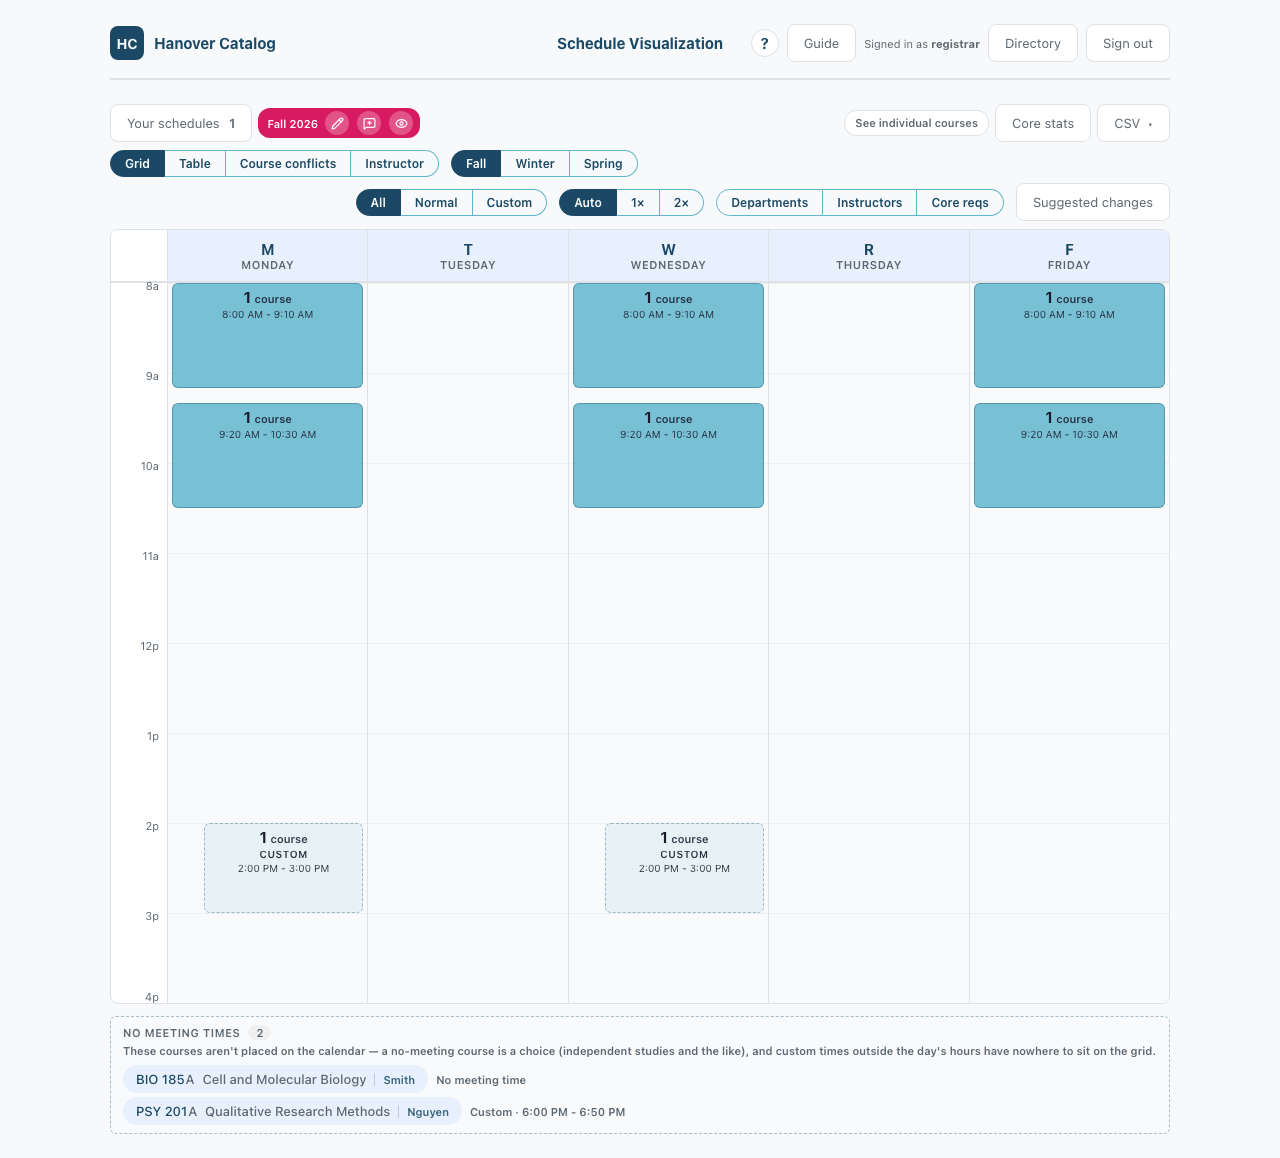
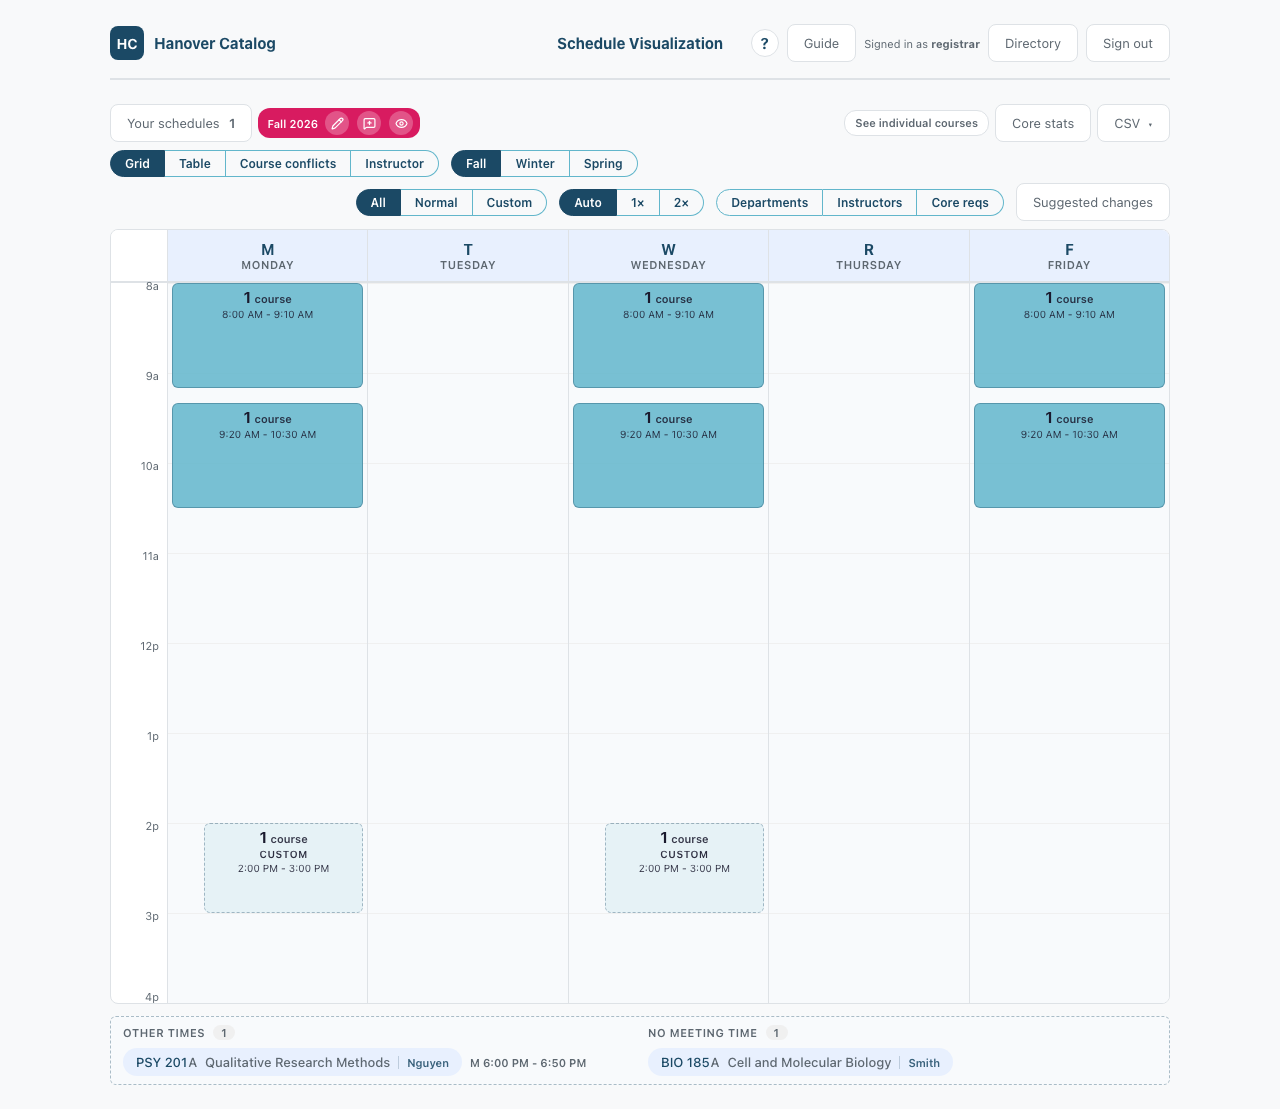
feat(schedule): split the off-calendar strip into Other times and No meeting time
The strip under the grid now shows two labelled columns — "Other times"
(scheduled courses entirely outside the grid's hours, each naming its days
and time) and "No meeting time" (deliberately unscheduled courses). The
repeated per-row "No meeting time" label and the explainer paragraph are
gone; an empty column shows a muted placeholder. Columns sit side by side
and stack on narrow screens.

diff --git a/apps/schedule/components/NoMeetingStrip.vue b/apps/schedule/components/NoMeetingStrip.vue
@@ -1,33 +1,51 @@
 <template>
-  <div v-if="items.length" class="no-meeting-strip">
-    <div class="no-meeting-head">
-      <h3 class="no-meeting-title">No meeting times</h3>
-      <span class="no-meeting-count">{{ items.length }}</span>
-    </div>
-    <p class="no-meeting-hint">
-      These courses aren't placed on the calendar — a no-meeting course is a choice (independent studies and
-      the like), and custom times outside the day's hours have nowhere to sit on the grid.
-      <template v-if="editMode"
-        >Drag one onto a time slot to give it a meeting time, or click the pencil to edit it.</template
-      >
-    </p>
-    <div class="no-meeting-list">
-      <div v-for="it in items" :key="offeringItemKey(it)" class="no-meeting-row">
-        <CoursePill
-          :item="it"
-          :filter-active="filter.active"
-          :color="filter.active ? filter.color(it) : ''"
-          :editable="canOpenEditor(it)"
-          :draggable="isEditable(it)"
-          :drag-day="''"
-          :proposed="proposalFor(it) ? itemTitle(it) : ''"
-          :removed="removalFor(it) ? itemTitle(it) : ''"
-          @edit="openCourseEdit(it)"
-        />
-        <span class="no-meeting-pattern">{{
-          it.o.days && it.o.time ? `Custom · ${formatTime(it.o.time)}` : 'No meeting time'
-        }}</span>
-      </div>
+  <div v-if="groups.otherTimes.length || groups.noMeeting.length" class="no-meeting-strip">
+    <div class="no-meeting-columns">
+      <section class="no-meeting-group" aria-label="Other times">
+        <h3 class="no-meeting-title">
+          Other times
+          <span class="no-meeting-count">{{ groups.otherTimes.length }}</span>
+        </h3>
+        <div v-if="groups.otherTimes.length" class="no-meeting-list">
+          <div v-for="it in groups.otherTimes" :key="offeringItemKey(it)" class="no-meeting-row">
+            <CoursePill
+              :item="it"
+              :filter-active="filter.active"
+              :color="filter.active ? filter.color(it) : ''"
+              :editable="canOpenEditor(it)"
+              :draggable="isEditable(it)"
+              :drag-day="''"
+              :proposed="proposalFor(it) ? itemTitle(it) : ''"
+              :removed="removalFor(it) ? itemTitle(it) : ''"
+              @edit="openCourseEdit(it)"
+            />
+            <span class="no-meeting-pattern">{{ it.o.days }} {{ formatTime(it.o.time) }}</span>
+          </div>
+        </div>
+        <p v-else class="no-meeting-empty">None</p>
+      </section>
+      <section class="no-meeting-group" aria-label="No meeting time">
+        <h3 class="no-meeting-title">
+          No meeting time
+          <span class="no-meeting-count">{{ groups.noMeeting.length }}</span>
+        </h3>
+        <div v-if="groups.noMeeting.length" class="no-meeting-list">
+          <div v-for="it in groups.noMeeting" :key="offeringItemKey(it)" class="no-meeting-row">
+            <CoursePill
+              :item="it"
+              :filter-active="filter.active"
+              :color="filter.active ? filter.color(it) : ''"
+              :editable="canOpenEditor(it)"
+              :draggable="isEditable(it)"
+              :drag-day="''"
+              :proposed="proposalFor(it) ? itemTitle(it) : ''"
+              :removed="removalFor(it) ? itemTitle(it) : ''"
+              @edit="openCourseEdit(it)"
+            />
+          </div>
+        </div>
+        <p v-else class="no-meeting-empty">None</p>
+      </section>
     </div>
   </div>
 </template>
@@ -55,10 +73,12 @@ import CoursePill from './CoursePill.vue'
 
 import { computed } from 'vue'
 
-// Courses that never appear on the calendar grid for the active term:
-// no-meeting-time offerings plus scheduled ones whose band lies entirely
-// outside the term's rendered hours (e.g. a 6pm class in Fall). Both are
-// deliberate choices, so they live in this strip with their pattern shown.
+// Courses that never appear on the calendar grid for the active term, split
+// into two labelled columns: offerings scheduled entirely outside the term's
+// rendered hours ("Other times", e.g. a 6pm class in Fall) and offerings with
+// no meeting time at all ("No meeting time" — independent studies and the
+// like). Both are deliberate, so they live in this strip, draggable onto slots
+// in edit mode.
 export default {
   name: 'NoMeetingStrip',
   components: { CoursePill },
@@ -66,7 +86,7 @@ export default {
     filter: { type: Object, required: true },
   },
   setup(props) {
-    const items = computed(() => {
+    const groups = computed(() => {
       const range = calendarDayRange(activeTerm.value)
       // Dedup and key by the offering's full identity: `code + section` is the
       // same for a lecture and every lab on its letter (labs carry the L in
@@ -74,8 +94,9 @@ export default {
       // so the plain key would collapse or ghost rows. `offeringItemKey`
       // includes the lab marker, labSeq, content id, and source schedule.
       const keyOf = (it) => offeringItemKey(it)
-      const out = [...(shownSchedule.value.unscheduled || [])]
-      const seen = new Set(out.map(keyOf))
+      const noMeeting = [...(shownSchedule.value.unscheduled || [])]
+      const seen = new Set(noMeeting.map(keyOf))
+      const otherTimes = []
       for (const d of WEEKDAYS) {
         for (const b of daySlotBlocks(d, shownSchedule.value)) {
           if (clipBand(b, range)) continue
@@ -83,20 +104,19 @@ export default {
             const key = keyOf(it)
             if (!seen.has(key)) {
               seen.add(key)
-              out.push(it)
+              otherTimes.push(it)
             }
           }
         }
       }
-      if (props.filter.active) return out.filter((it) => props.filter.matches(it))
-      return out
+      const matches = (it) => !props.filter.active || props.filter.matches(it)
+      return { otherTimes: otherTimes.filter(matches), noMeeting: noMeeting.filter(matches) }
     })
     // Pending-suggestion markers: a proposed pill (dashed) or a removal/move
     // marker (struck through) on a live course a proposal would take away.
     const proposalFor = (it) => overlayProposal(it.o)
     const removalFor = (it) => overlayRemoval(it.o)
     const itemTitle = (it) => overlayTitle(it.o, it.code)
-    const editMode = computed(() => Boolean(editingScheduleId.value))
     // Per-item editability: the session's own schedule, scoped to the user's
     // departments in a non-owner suggest session.
     const isEditable = (it) =>
@@ -108,11 +128,10 @@ export default {
       it.sid === editingScheduleId.value &&
       (canTouchOffering(it.sid, it.o, 'edit') || canTouchOffering(it.sid, it.o, 'remove'))
     return {
-      items,
+      groups,
       proposalFor,
       removalFor,
       itemTitle,
-      editMode,
       isEditable,
       canOpenEditor,
       formatTime,

diff --git a/style/partials/_schedule.scss b/style/partials/_schedule.scss
@@ -482,9 +482,10 @@
   background: var(--accent-12);
   border-color: var(--primary);
 }
-/* The "No meeting times" strip under the grid: courses that deliberately have
-   no meeting time (independent studies) or sit entirely outside the ruled
-   hours. Pills are draggable onto slots in edit mode. */
+/* The strip under the grid: courses that never appear on the calendar, in two
+   labelled columns — "Other times" (scheduled, but entirely outside the ruled
+   hours) and "No meeting time" (deliberately unscheduled, independent studies).
+   Pills are draggable onto slots in edit mode. */
 .no-meeting-strip {
   margin-top: var(--space-3);
   border: 1px dashed var(--primary-35);
@@ -492,15 +493,21 @@
   padding: var(--space-2) var(--space-3);
   background: var(--gray-50);
 }
-.no-meeting-head {
-  display: flex;
-  align-items: center;
-  gap: var(--space-2);
+/* Side by side when the strip has the width, stacked on narrow screens; a
+   lone non-empty column still spans the full width. */
+.no-meeting-columns {
+  display: grid;
+  grid-template-columns: repeat(auto-fit, minmax(320px, 1fr));
+  gap: var(--space-2) var(--space-4);
+  align-items: start;
 }
 .no-meeting-title {
   @include text-eyebrow;
+  display: flex;
+  align-items: center;
+  gap: var(--space-2);
   color: var(--text-muted);
-  margin: 0;
+  margin: 0 0 var(--space-2);
 }
 .no-meeting-count {
   @include text-caption;
@@ -509,10 +516,10 @@
   border-radius: var(--radius-pill);
   padding: 1px var(--space-2);
 }
-.no-meeting-hint {
+.no-meeting-empty {
   @include text-caption;
   color: var(--text-muted);
-  margin: var(--space-1) 0 var(--space-2);
+  margin: 0;
 }
 .no-meeting-list {
   display: flex;

diff --git a/apps/schedule/src/scheduleStore.js b/apps/schedule/src/scheduleStore.js
@@ -2229,7 +2229,7 @@ export function addLabSection(id, cur) {
 // Adds a further meeting band to an existing lecture section as a same-section
 // sibling row — split meetings are how one section carries different days/times
 // (e.g. MW at one band, R at another). The new row starts unscheduled (blank
-// days/time, so it lands in the "No meeting times" strip, matching a new lab)
+// days/time, so it lands in the off-calendar strip, matching a new lab)
 // and copies the section's title / instructors / seats. A cross-listed group
 // stays parallel: one mirror row is added per present sibling version (deduped
 // by code), and an unowned group is claimed. Returns the created row for

diff --git a/apps/schedule/README.md b/apps/schedule/README.md
@@ -85,9 +85,11 @@ right-anchored dashed **"custom" rail** spanning 80% of the column width, and
 its
 in-range portion is clamped at the grid's edges with a corner notch when it
 starts before or ends after the ruled hours. Courses entirely outside the
-ruled hours — together with no-meeting-time courses — appear in the **"No
-meeting times" strip** under the grid (draggable onto slots in edit mode, so
-you can give an independent study a time). The strip and the rail keep
+ruled hours — together with no-meeting-time courses — appear in the strip
+under the grid, split into two columns: **"Other times"** (the off-hours ones,
+each labelled with its days and time) and **"No meeting time"** (the
+deliberately unscheduled ones); the pills are draggable onto slots in edit mode,
+so you can give an independent study a time. The strip and the rail keep
 off-pattern courses visible without letting them compete with normal ones.
 
 Clicking a grid block **opens its course list in the same footprint** (click
@@ -280,7 +282,7 @@ the same way.
 A section may carry **split meetings** — the same section meeting at different
 days/times (e.g. MW at one band, R at another). **"＋ Add another meeting
 time"** clones the section as a blank same-section sibling (unscheduled, in the
-"No meeting times" strip) and switches the editor to it to set its days/time;
+off-calendar strip) and switches the editor to it to set its days/time;
 an inline **"This section also meets:"** note lists the section's other
 meetings, each a link that jumps the editor to that row, and the header
 switcher labels every row with its meeting. A cross-listed group stays
@@ -338,7 +340,7 @@ grid).
 
 **Labs**: the course editor's "Add lab section" (lecture rows only) creates a
 lab that mirrors the lecture's section letter, copies its instructors (lead
-plus secondary), and starts unscheduled in the "No meeting times" strip,
+plus secondary), and starts unscheduled in the off-calendar strip,
 ready to drag onto a slot. Confirmation appears in the editor; if nothing
 else was being edited the editor closes itself and drops the user back onto
 the grid. Removing a lecture removes its labs; renaming a lecture's letter

diff --git a/docs-site/guide/schedule/hiding.md b/docs-site/guide/schedule/hiding.md
@@ -3,14 +3,16 @@
 Usually a course is a colored block on the grid. Here is everywhere else it can
 be — and why a course you know about might seem to be missing.
 
-## Below the grid: "No meeting times"
+## Below the grid: the off-calendar strip
 
-Under the week grid there is a strip headed **No meeting times**. It holds two
-kinds of courses, both easy to overlook because they are not on the calendar:
+Under the week grid there is a strip with two columns, for the courses that
+never show up on the calendar — both easy to overlook because they aren't on it:
 
-- Courses with **no meeting time at all** — independent studies and the like.
-- Courses whose time falls **outside the hours the grid shows**, such as a 6:00
-  PM class. Their pattern is shown as **Custom · 6:00 PM - 6:50 PM**.
+- **Other times** — courses whose meeting falls **outside the hours the grid
+  shows**, such as a 6:00 PM class. Each names its days and time, for example
+  **M 6:00 PM - 6:50 PM**.
+- **No meeting time** — courses with **no meeting time at all**, such as
+  independent studies.
 
 <Shot file="schedule-no-meeting.png" />
 
